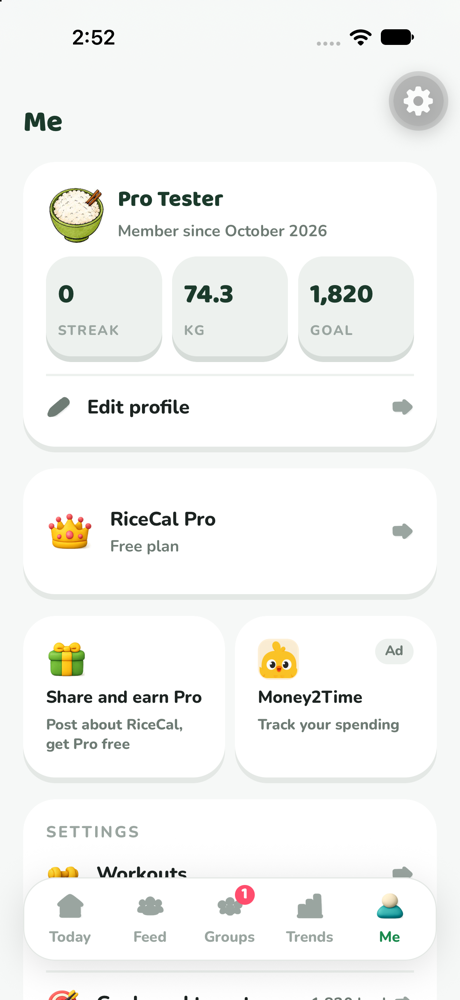
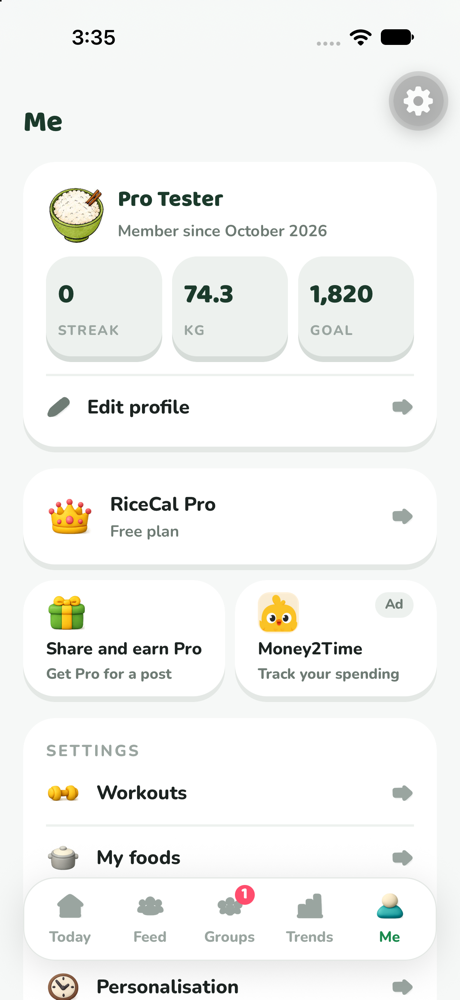
Tighten the Pro card and the two offer cards under it
Less padding above and below the RiceCal Pro row and the two offer cards, a
one-line subtitle on each offer card (a short new Share and earn line in all
13 languages), and the offers sit at the same 10 px gap below the Pro card as
between each other.

diff --git a/apps/mobile/app/(tabs)/me.tsx b/apps/mobile/app/(tabs)/me.tsx
@@ -216,69 +216,78 @@ export default function MeScreen() {
         />
       </Card>
 
-      <Card contentClassName="gap-0">
-        {/* Somebody who has never paid has nothing to manage. The subscription
+      {/* One group with the offers under it, at the gap between the two offer
+          cards, so they read as the Pro card's options rather than as the next
+          section of the screen. */}
+      <View className="gap-2.5">
+        {/* `py-2` because the row brings its own vertical padding, and on top of
+          the card's it left a band of empty card above and below one line. */}
+        <Card contentClassName="gap-0 py-2">
+          {/* Somebody who has never paid has nothing to manage. The subscription
             screen is a plan, a renewal date and a way to cancel; for them it
             was three cards of "none" wrapped around a button to the paywall,
             so they go straight to the paywall instead. */}
-        <ListRow
-          title={t('profile:home.pro')}
-          subtitle={planLine}
-          leading={<Icon set="system" name="crown" size={42} />}
-          divider={false}
-          onPress={() => router.push(plan.state === 'none' ? '/paywall' : '/settings/subscription')}
-        />
-      </Card>
+          <ListRow
+            title={t('profile:home.pro')}
+            subtitle={planLine}
+            leading={<Icon set="system" name="crown" size={42} />}
+            divider={false}
+            onPress={() =>
+              router.push(plan.state === 'none' ? '/paywall' : '/settings/subscription')
+            }
+          />
+        </Card>
 
-      {/* Free accounts only (see `showFreeOffers`). Share & Earn
+        {/* Free accounts only (see `showFreeOffers`). Share & Earn
           is the way to Pro without paying, beside the Pro row that sells it;
           the Money2Time card is the ad Money2Time runs for RiceCal in return. */}
-      {showFreeOffers ? (
-        <View className="flex-row gap-2.5">
-          <Card
-            className="min-w-0 flex-1"
-            contentClassName="flex-1 gap-1.5 p-4"
-            accessibilityRole="button"
-            onPress={() => router.push('/settings/share')}
-          >
-            <Icon set="system" name="gift" size={36} />
-            <Text variant="label" numberOfLines={2}>
-              {t('profile:shareEarn.row')}
-            </Text>
-            <Text variant="caption" numberOfLines={2}>
-              {t('profile:shareEarn.heroTitle')}
-            </Text>
-          </Card>
-          <Card
-            className="min-w-0 flex-1"
-            contentClassName="flex-1 gap-1.5 p-4"
-            accessibilityRole="button"
-            onPress={() => {
-              track('Money2Time Ad Opened', {})
-              setMoney2TimeOpen(true)
-            }}
-          >
-            <View className="flex-row items-start justify-between gap-1">
-              <Image
-                source={MONEY2TIME_LOGO}
-                style={{ width: 36, height: 36, borderRadius: 10 }}
-                contentFit="cover"
-                transition={0}
-                accessible={false}
-              />
-              <Badge tone="neutral" size="sm">
-                {t('profile:money2time.ad')}
-              </Badge>
-            </View>
-            <Text variant="label" numberOfLines={2}>
-              {t('profile:money2time.name')}
-            </Text>
-            <Text variant="caption" numberOfLines={2}>
-              {t('profile:money2time.card')}
-            </Text>
-          </Card>
-        </View>
-      ) : null}
+        {showFreeOffers ? (
+          <View className="flex-row gap-2.5">
+            <Card
+              className="min-w-0 flex-1"
+              contentClassName="flex-1 gap-1 py-3"
+              accessibilityRole="button"
+              onPress={() => router.push('/settings/share')}
+            >
+              <Icon set="system" name="gift" size={36} />
+              <Text variant="label" numberOfLines={2}>
+                {t('profile:shareEarn.row')}
+              </Text>
+              <Text variant="caption" numberOfLines={1}>
+                {t('profile:shareEarn.card')}
+              </Text>
+            </Card>
+            <Card
+              className="min-w-0 flex-1"
+              contentClassName="flex-1 gap-1 py-3"
+              accessibilityRole="button"
+              onPress={() => {
+                track('Money2Time Ad Opened', {})
+                setMoney2TimeOpen(true)
+              }}
+            >
+              <View className="flex-row items-start justify-between gap-1">
+                <Image
+                  source={MONEY2TIME_LOGO}
+                  style={{ width: 36, height: 36, borderRadius: 10 }}
+                  contentFit="cover"
+                  transition={0}
+                  accessible={false}
+                />
+                <Badge tone="neutral" size="sm">
+                  {t('profile:money2time.ad')}
+                </Badge>
+              </View>
+              <Text variant="label" numberOfLines={2}>
+                {t('profile:money2time.name')}
+              </Text>
+              <Text variant="caption" numberOfLines={1}>
+                {t('profile:money2time.card')}
+              </Text>
+            </Card>
+          </View>
+        ) : null}
+      </View>
 
       {/* With two panes the account is the first and its settings the second.
           See `Aside`. */}

diff --git a/apps/mobile/src/i18n/ta.ts b/apps/mobile/src/i18n/ta.ts
@@ -1180,6 +1180,7 @@ export const ta = {
       row: 'பகிர்ந்து Pro பெறுங்கள்',
       title: 'பகிர்ந்து Pro பெறுங்கள்',
       heroTitle: 'இடுகையிடு, இலவச Pro',
+      card: 'இடுகைக்கு Pro',
       heroBody:
         'நீங்கள் பதிவு செய்த ஒரு தட்டை மற்றவர்களுக்குக் காட்டுங்கள். இடுகைக்கு விருப்பங்கள் அதிகமானால், நாங்கள் அனுப்பும் Pro நீளும்.',
 

diff --git a/apps/mobile/src/i18n/bn.ts b/apps/mobile/src/i18n/bn.ts
@@ -1164,6 +1164,7 @@ export const bn = {
       row: 'ভাগ করুন, Pro পান',
       title: 'ভাগ করুন, Pro পান',
       heroTitle: 'RiceCal নিয়ে পোস্ট করুন, Pro ফ্রি',
+      card: 'পোস্ট করুন, Pro পান',
       heroBody: 'আপনার লেখা একটি থালা সবাইকে দেখান। পোস্টে যত বেশি লাইক, আমাদের পাঠানো Pro তত লম্বা।',
 
       platforms: 'এখানে পোস্ট করুন',

diff --git a/apps/mobile/src/i18n/hi.ts b/apps/mobile/src/i18n/hi.ts
@@ -1167,6 +1167,7 @@ export const hi = {
       row: 'साझा करें और Pro पाएं',
       title: 'साझा करें और Pro पाएं',
       heroTitle: 'RiceCal पर पोस्ट करें, Pro मुफ़्त',
+      card: 'पोस्ट करें, Pro पाएं',
       heroBody:
         'लोगों को अपनी दर्ज की हुई थाली दिखाइए। पोस्ट पर जितने ज़्यादा लाइक, उतना लंबा Pro हम भेजते हैं।',
 

diff --git a/apps/mobile/src/i18n/th.ts b/apps/mobile/src/i18n/th.ts
@@ -1167,6 +1167,7 @@ export const th = {
       row: 'แชร์แล้วได้ Pro',
       title: 'แชร์แล้วได้ Pro',
       heroTitle: 'โพสต์ถึง RiceCal รับ Pro ฟรี',
+      card: 'โพสต์รับ Pro',
       heroBody: 'อวดจานที่คุณบันทึกให้คนอื่นดู ยิ่งโพสต์มีคนกดถูกใจมาก Pro ที่เราส่งให้ก็ยิ่งนาน',
 
       platforms: 'โพสต์ได้ที่',

diff --git a/apps/mobile/src/i18n/ja.ts b/apps/mobile/src/i18n/ja.ts
@@ -1177,6 +1177,7 @@ export const ja = {
       row: 'シェアして Pro をもらう',
       title: 'シェアして Pro をもらう',
       heroTitle: 'RiceCal を投稿して Pro を無料で',
+      card: '投稿で Pro',
       heroBody:
         '記録したお皿をみんなに見せてください。投稿のいいねが多いほど、お送りする Pro の期間も長くなります。',
 

diff --git a/apps/mobile/src/i18n/en/profile.ts b/apps/mobile/src/i18n/en/profile.ts
@@ -185,6 +185,8 @@ export const profile = {
     row: 'Share and earn Pro',
     title: 'Share and earn Pro',
     heroTitle: 'Post about RiceCal, get Pro free',
+    /** Under the row on its card in Me, one line at half the screen's width. */
+    card: 'Get Pro for a post',
     heroBody:
       'Show people a plate you logged. The more your post is liked, the longer the Pro we send you.',
 

diff --git a/apps/mobile/src/i18n/ko.ts b/apps/mobile/src/i18n/ko.ts
@@ -1172,6 +1172,7 @@ export const ko = {
       row: '공유하고 Pro 받기',
       title: '공유하고 Pro 받기',
       heroTitle: 'RiceCal 글 올리고 Pro 무료로',
+      card: '글 올리고 Pro',
       heroBody:
         '기록한 한 접시를 사람들에게 보여주세요. 게시물의 좋아요가 많을수록 보내드리는 Pro 기간도 길어집니다.',
 

diff --git a/apps/mobile/src/i18n/vi.ts b/apps/mobile/src/i18n/vi.ts
@@ -1179,6 +1179,7 @@ export const vi = {
       row: 'Chia sẻ và nhận Pro',
       title: 'Chia sẻ và nhận Pro',
       heroTitle: 'Đăng bài về RiceCal, nhận Pro',
+      card: 'Đăng bài nhận Pro',
       heroBody:
         'Cho mọi người xem một đĩa bạn đã ghi. Bài đăng càng nhiều lượt thích, Pro chúng tôi tặng càng dài.',
 

diff --git a/apps/mobile/src/i18n/fil.ts b/apps/mobile/src/i18n/fil.ts
@@ -1202,6 +1202,7 @@ export const fil = {
       row: 'Mag-share at kumita ng Pro',
       title: 'Mag-share at kumita ng Pro',
       heroTitle: 'Mag-post sa RiceCal, libreng Pro',
+      card: 'Mag-post, may Pro',
       heroBody:
         'Ipakita sa mga tao ang platong ni-log mo. Habang dumarami ang like ng post mo, humahaba ang Pro na ipapadala namin.',
 

diff --git a/apps/mobile/src/i18n/id.ts b/apps/mobile/src/i18n/id.ts
@@ -1190,6 +1190,7 @@ export const id = {
       row: 'Bagikan dan dapatkan Pro',
       title: 'Bagikan dan dapatkan Pro',
       heroTitle: 'Posting tentang RiceCal, dapat Pro',
+      card: 'Posting, dapat Pro',
       heroBody:
         'Tunjukkan ke orang-orang piring yang kamu catat. Makin banyak postinganmu disukai, makin lama Pro yang kami kirim.',
 

diff --git a/apps/mobile/src/i18n/ms.ts b/apps/mobile/src/i18n/ms.ts
@@ -1206,6 +1206,7 @@ export const ms = {
       row: 'Kongsi dan dapat Pro',
       title: 'Kongsi dan dapat Pro',
       heroTitle: 'Pos tentang RiceCal, dapat Pro',
+      card: 'Pos, dapat Pro',
       heroBody:
         'Tunjukkan orang pinggan yang anda rekod. Semakin banyak hantaran anda disukai, semakin lama Pro yang kami hantar.',
 
